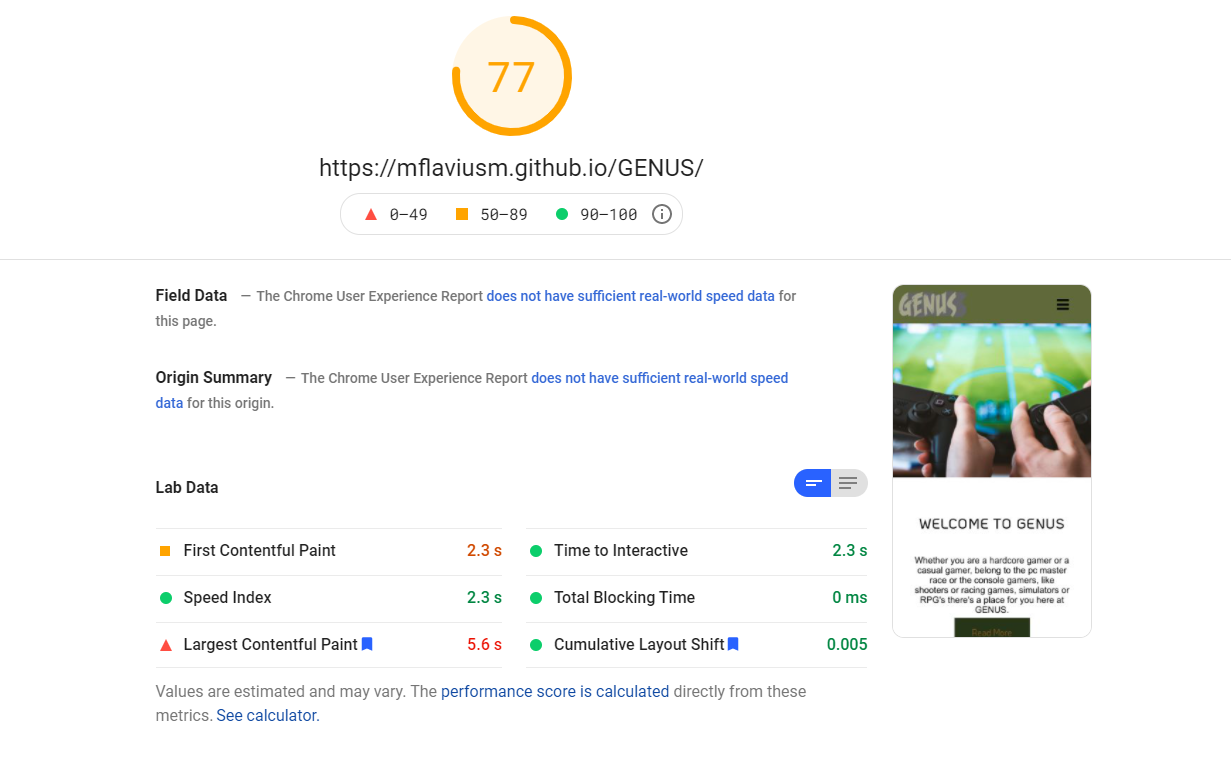
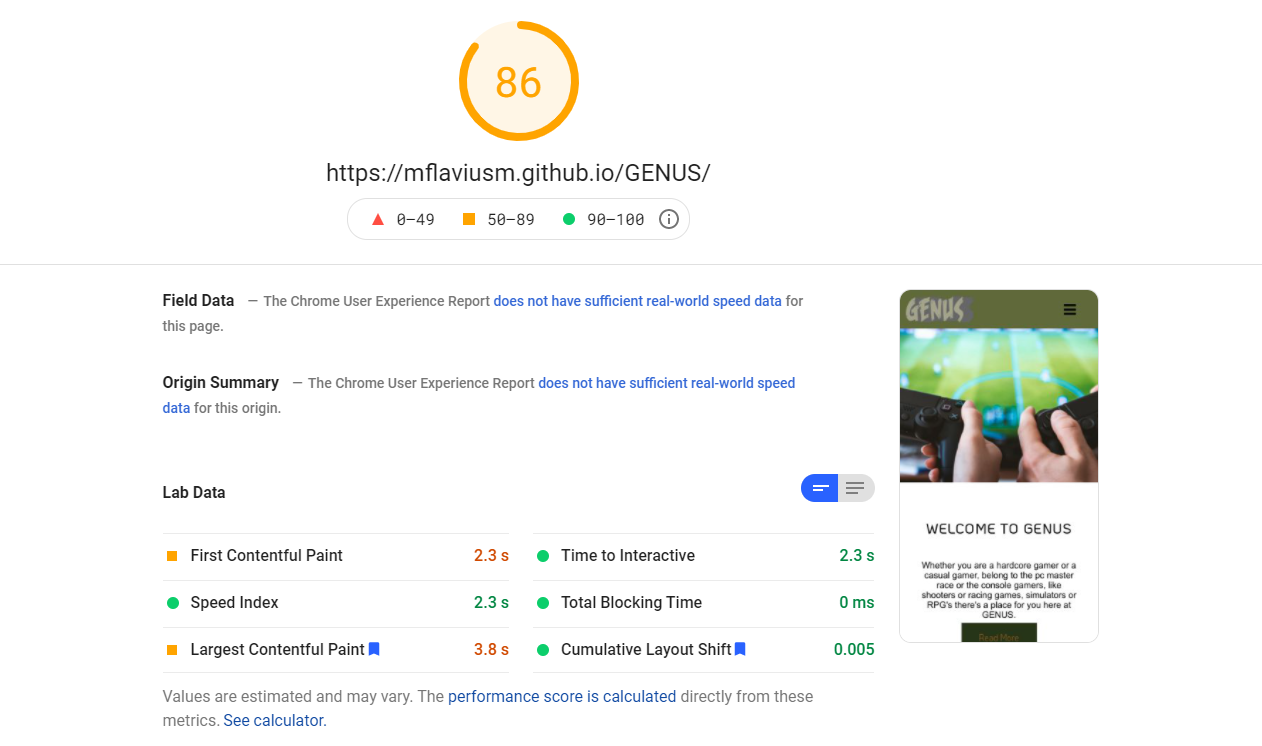
Replace responsiveness image from readme-images with up to date version

diff --git a/testing-file.md b/testing-file.md
@@ -35,4 +35,4 @@ The following bugs were encountered and fixed during development:
 
 - The YouTube iframe was overlapping the navbar when scrolling down the community page. The issue was fixed by removing the absolute positioning given to the iframe.
 - The footer was not sticking to the bottom of the page if the viewport was higher than the content was filling. The issue was fixed by creating a div to cover the entire body and style it with flexbox.
-
+- Long loading times for the gallery page. All images have been compressed to improve the loading times.
